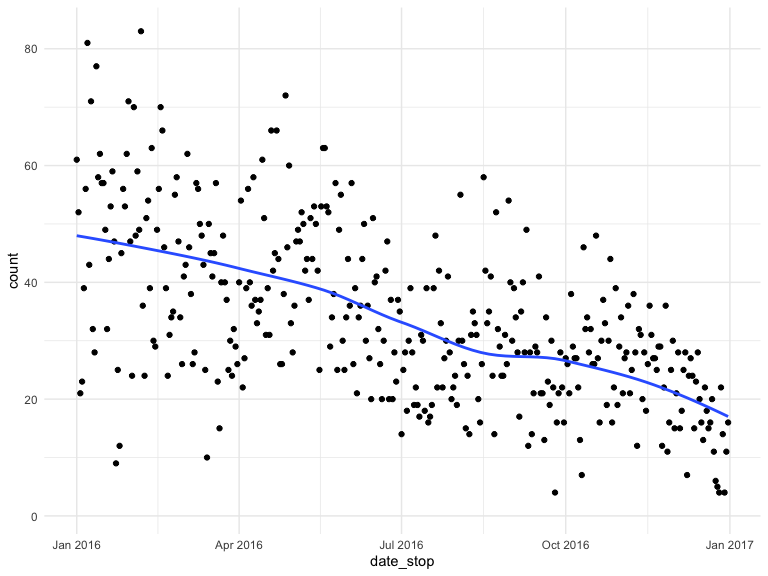
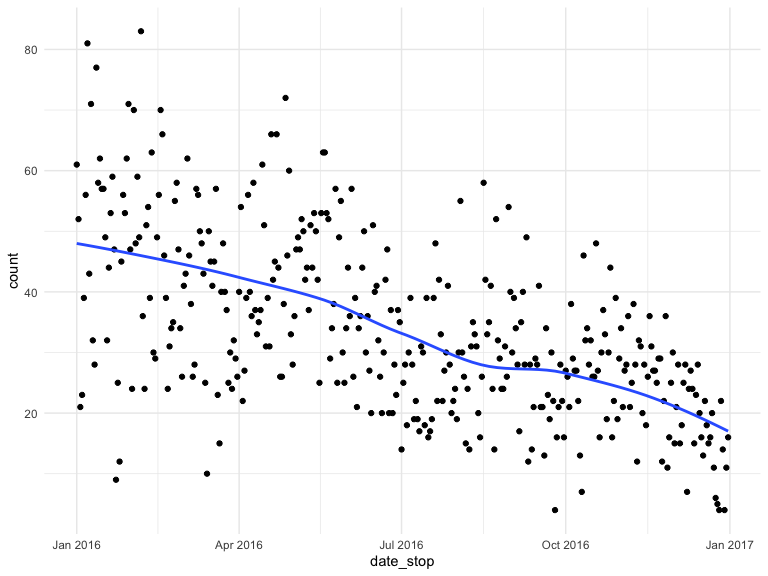
Updated data cleaning

diff --git a/group_13_final_proj.md b/group_13_final_proj.md
@@ -1,36 +1,44 @@
 Group 13 Final Project
 ================
 cs3779, kd2640, ob2305, mp3745, lef2147
-2019-11-23
+2019-11-24
 
 Rough Outline of Project:
 
--   Describe the goal/motivation of the project; have some stats and facts to explain our purpose in investigating this dataset
--   Describe the dataset: where is it from, what does it contain
--   Review the questions we intend on answering
--   Exploratory Data Analysis
--   Give an overview of the demographics of our dataset, any conclusion we make is only relevant to those who were stopped which is why it is good to give an idea of who is represented
-    -   histogram of race/build/etc.
-    -   distribution of continuous variables
--   Logistic Regression
-    -   odds of frisked
-    -   odds of arrest
--   Trends over time
-    -   could maybe find a way to test this, i.e. linear regression, is the slope equal to zero, or something of that nature. the plot shows a funnel pattern so maybe we could look into that more
--   other things
--   Findings/Discussion
+  - Describe the goal/motivation of the project; have some stats and
+    facts to explain our purpose in investigating this dataset
+  - Describe the dataset: where is it from, what does it contain
+  - Review the questions we intend on answering
+  - Exploratory Data Analysis
+      - Give an overview of the demographics of our dataset, any
+        conclusion we make is only relevant to those who were stopped
+        which is why it is good to give an idea of who is represented
+          - histogram of race/build/etc.
+          - distribution of continuous variables
+      - Logistic Regression
+          - odds of frisked
+          - odds of arrest
+      - Trends over time
+          - could maybe find a way to test this, i.e. linear regression,
+            is the slope equal to zero, or something of that nature. the
+            plot shows a funnel pattern so maybe we could look into that
+            more
+      - other things
+  - Findings/Discussion
 
 Read in and tidy the data
 
 The following code:
 
--   Reads in the data
--   Renames columns to be more informative
--   Combines height columns into a single height in inches
--   Converts date\_stop to date data type
--   Converts time\_stop to time data type
--   Recodes the values in categorical columns to be more informative
--   Selects column subset for further analysis
+  - Reads in the data
+  - Renames columns to be more informative
+  - Combines height columns into a single height in inches
+  - Converts date\_stop to date data type
+  - Converts time\_stop to time data type
+  - Recodes the values in categorical columns to be more informative
+  - Selects column subset for further analysis
+
+<!-- end list -->
 
 ``` r
 # Read in data
@@ -124,13 +132,15 @@ stop_frisk_df =
   # select columns for further analysis
   select(precinct, date_stop, time_stop, stop_in_out, obs_time_min, stop_time_min, arst_made, off_in_unif, frisked, 
          searched, rf_vcrim, rf_othsw, rf_attir:ac_evasv, cs_furtv:cs_other, rf_knowl, sb_hdobj:sb_admis, rf_furt, 
-         rf_bulg, sex, race, age, height_inch, weight:other_feature, boro, xcoord, ycoord) %>% 
+         rf_bulg, sex, race, age, height_inch, weight:build, boro, xcoord, ycoord) %>% 
   # change all columns that have Y/N to 1/0
   mutate_at(vars(arst_made:rf_bulg), funs(recode(., "Y" = "1", "N" = "0"))) %>% 
   # change binary columns to numeric instead of character
   mutate_at(vars(arst_made:rf_bulg), funs(as.numeric(.))) %>% 
   # converts all character variables to factors (this does the same as the for loop)
-  mutate_if(is.character, as.factor)
+  mutate_if(is.character, as.factor) %>% 
+  # remove the single row of NAs
+  filter(!is.na(build))
 ```
 
 Evaluating Missing Data and Categorical Data
@@ -186,25 +196,23 @@ colSums(is.na(stop_frisk_df))
 ```
 
     ##      precinct     date_stop     time_stop   stop_in_out  obs_time_min 
-    ##             1             1             1             1             1 
+    ##             0             0             0             0             0 
     ## stop_time_min     arst_made   off_in_unif       frisked      searched 
-    ##            24             1             1             1             1 
+    ##            23             0             0             0             0 
     ##      rf_vcrim      rf_othsw      rf_attir      cs_objcs      cs_descr 
-    ##             1             1             1             1             1 
+    ##             0             0             0             0             0 
     ##      cs_casng      cs_lkout      rf_vcact      cs_cloth      cs_drgtr 
-    ##             1             1             1             1             1 
+    ##             0             0             0             0             0 
     ##      ac_evasv      cs_furtv      rf_rfcmp      ac_cgdir      rf_verbl 
-    ##             1             1             1             1             1 
+    ##             0             0             0             0             0 
     ##      cs_vcrim      cs_bulge      cs_other      rf_knowl      sb_hdobj 
-    ##             1             1             1             1             1 
+    ##             0             0             0             0             0 
     ##      sb_outln      sb_admis       rf_furt       rf_bulg           sex 
-    ##             1             1             1             1             1 
+    ##             0             0             0             0             0 
     ##          race           age   height_inch        weight      hair_col 
-    ##             1            35             1             1             1 
-    ##       eye_col         build other_feature          boro        xcoord 
-    ##             1             1         11637             1           352 
-    ##        ycoord 
-    ##           352
+    ##             0            34             0             0             0 
+    ##       eye_col         build          boro        xcoord        ycoord 
+    ##             0             0             0           351           351
 
 ``` r
 # we should consider removing variable other_feature (11637 missing obs)
@@ -215,8 +223,10 @@ colSums(is.na(stop_frisk_df))
 
 Looking at stops over time
 
--   Over a year
--   By time of day
+  - Over a year
+  - By time of day
+
+<!-- end list -->
 
 ``` r
 # Number of stops per day
@@ -230,7 +240,7 @@ stop_frisk_df %>%
   geom_smooth(se = FALSE)
 ```
 
-<img src="group_13_final_proj_files/figure-markdown_github/unnamed-chunk-3-1.png" width="90%" />
+<img src="group_13_final_proj_files/figure-gfm/unnamed-chunk-3-1.png" width="90%" />
 
 ``` r
 # Number of stops per month
@@ -249,7 +259,7 @@ stop_frisk_df %>%
   geom_bar(stat = "Identity") 
 ```
 
-<img src="group_13_final_proj_files/figure-markdown_github/unnamed-chunk-3-2.png" width="90%" />
+<img src="group_13_final_proj_files/figure-gfm/unnamed-chunk-3-2.png" width="90%" />
 
 ``` r
 # Number of stops per day (broken down by boro)
@@ -269,7 +279,7 @@ stop_frisk_df %>%
   geom_smooth(se = FALSE) 
 ```
 
-<img src="group_13_final_proj_files/figure-markdown_github/unnamed-chunk-3-3.png" width="90%" />
+<img src="group_13_final_proj_files/figure-gfm/unnamed-chunk-3-3.png" width="90%" />
 
 ``` r
 # Number of stops per hour over the day
@@ -288,7 +298,7 @@ stop_frisk_df %>%
   geom_smooth(se = FALSE)
 ```
 
-<img src="group_13_final_proj_files/figure-markdown_github/unnamed-chunk-3-4.png" width="90%" />
+<img src="group_13_final_proj_files/figure-gfm/unnamed-chunk-3-4.png" width="90%" />
 
 ``` r
 # Number of stops per hour over the day (broken down by boro)
@@ -305,9 +315,10 @@ stop_frisk_df %>%
   geom_smooth(se = FALSE)
 ```
 
-<img src="group_13_final_proj_files/figure-markdown_github/unnamed-chunk-3-5.png" width="90%" />
+<img src="group_13_final_proj_files/figure-gfm/unnamed-chunk-3-5.png" width="90%" />
 
-This code chunk looks at the number of people stopped, frisked, frisked & searched, and searched over a single day
+This code chunk looks at the number of people stopped, frisked, frisked
+& searched, and searched over a single day
 
 ``` r
 stop_frisk_df %>% 
@@ -343,9 +354,11 @@ stop_frisk_df %>%
   geom_smooth(aes(y = frisk_and_search, color = 'yellow'), se = FALSE) 
 ```
 
-<img src="group_13_final_proj_files/figure-markdown_github/unnamed-chunk-4-1.png" width="90%" />
+<img src="group_13_final_proj_files/figure-gfm/unnamed-chunk-4-1.png" width="90%" />
 
-Logistic Regression Dataset - not sure if we want to use this for overall but didnt want to completely change the code above without asking everyone
+Logistic Regression Dataset - not sure if we want to use this for
+overall but didnt want to completely change the code above without
+asking everyone
 
 ``` r
 stop_frisk_log = stop_frisk_df %>% mutate(
@@ -389,7 +402,16 @@ stop_frisk_log = stop_frisk_df %>% mutate(
     ))
 ```
 
-Building a model using only characteristics, demographics, and location as predictors for frisked - assess multicolinearity to determine if there are any variables that exhibit high correlation - We will remove any variables that exhibit signs of multicollinearity - From this model, we can assess of those who were stopped, what are the odds of getting frisked based on certain characteristics, demographics and location predictors - IMPORTANT: we cannot make any causal statements from this model 'i.e. you have a higher odds of getting stopped if you are X race' because everyone in this dataset was stopped
+Building a model using only characteristics, demographics, and location
+as predictors for frisked - assess multicolinearity to determine if
+there are any variables that exhibit high correlation - We will remove
+any variables that exhibit signs of multicollinearity - From this model,
+we can assess of those who were stopped, what are the odds of getting
+frisked based on certain characteristics, demographics and location
+predictors - IMPORTANT: we cannot make any causal statements from this
+model ‘i.e. you have a higher odds of getting stopped if you are X race’
+because everyone in this dataset was
+stopped
 
 ``` r
 model_1 = glm(frisked ~ sex + race + age + height_inch + weight + hair_col + eye_col + boro + build + stop_in_out + precinct + off_in_unif, family = binomial, data = stop_frisk_log)
@@ -481,7 +503,7 @@ summary(model_2)
     ## 
     ##     Null deviance: 16164  on 12369  degrees of freedom
     ## Residual deviance: 15410  on 12346  degrees of freedom
-    ##   (35 observations deleted due to missingness)
+    ##   (34 observations deleted due to missingness)
     ## AIC: 15458
     ## 
     ## Number of Fisher Scoring iterations: 4
@@ -530,7 +552,7 @@ summary(model_3)
     ## 
     ##     Null deviance: 16164  on 12369  degrees of freedom
     ## Residual deviance: 15421  on 12353  degrees of freedom
-    ##   (35 observations deleted due to missingness)
+    ##   (34 observations deleted due to missingness)
     ## AIC: 15455
     ## 
     ## Number of Fisher Scoring iterations: 4
@@ -539,7 +561,9 @@ summary(model_3)
 # keep weight? 
 ```
 
-Building a model that uses characteristics, demographics, and location as predictors for arrest made
+Building a model that uses characteristics, demographics, and location
+as predictors for arrest
+made
 
 ``` r
 model_4 = glm(arst_made ~ sex + race + age + height_inch + weight + hair_col + eye_col + build + stop_in_out + precinct + off_in_unif, family = binomial, data = stop_frisk_log)
@@ -607,7 +631,7 @@ summary(model_4)
     ## 
     ##     Null deviance: 12821  on 12369  degrees of freedom
     ## Residual deviance: 12305  on 12346  degrees of freedom
-    ##   (35 observations deleted due to missingness)
+    ##   (34 observations deleted due to missingness)
     ## AIC: 12353
     ## 
     ## Number of Fisher Scoring iterations: 4
@@ -659,7 +683,7 @@ summary(model_5)
     ## 
     ##     Null deviance: 12821  on 12369  degrees of freedom
     ## Residual deviance: 12305  on 12349  degrees of freedom
-    ##   (35 observations deleted due to missingness)
+    ##   (34 observations deleted due to missingness)
     ## AIC: 12347
     ## 
     ## Number of Fisher Scoring iterations: 4
@@ -706,7 +730,7 @@ summary(model_6)
     ## 
     ##     Null deviance: 12821  on 12369  degrees of freedom
     ## Residual deviance: 12319  on 12354  degrees of freedom
-    ##   (35 observations deleted due to missingness)
+    ##   (34 observations deleted due to missingness)
     ## AIC: 12351
     ## 
     ## Number of Fisher Scoring iterations: 4
@@ -751,7 +775,7 @@ summary(model_7)
     ## 
     ##     Null deviance: 12821  on 12369  degrees of freedom
     ## Residual deviance: 12319  on 12355  degrees of freedom
-    ##   (35 observations deleted due to missingness)
+    ##   (34 observations deleted due to missingness)
     ## AIC: 12349
     ## 
     ## Number of Fisher Scoring iterations: 4
@@ -762,8 +786,8 @@ stop_frisk_log %>% group_by(frisked, searched, arst_made) %>%
     n_obs = n())
 ```
 
-    ## # A tibble: 9 x 4
-    ## # Groups:   frisked, searched [5]
+    ## # A tibble: 8 x 4
+    ## # Groups:   frisked, searched [4]
     ##   frisked searched arst_made n_obs
     ##     <dbl>    <dbl>     <dbl> <int>
     ## 1       0        0         0  3638
@@ -774,7 +798,6 @@ stop_frisk_log %>% group_by(frisked, searched, arst_made) %>%
     ## 6       1        0         1   457
     ## 7       1        1         0  1047
     ## 8       1        1         1  1443
-    ## 9      NA       NA        NA     1
 
 ``` r
 # count per sex group
@@ -822,7 +845,8 @@ library(patchwork)
 (frisked_plot+searched_plot)
 ```
 
-Regression model for demographics
+Regression model for
+demographics
 
 ``` r
 dem_model = glm(arst_made ~ sex:build + height_inch, family = binomial, data = stop_frisk_df)
